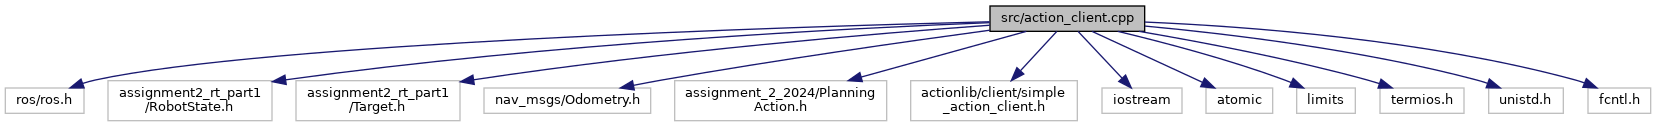
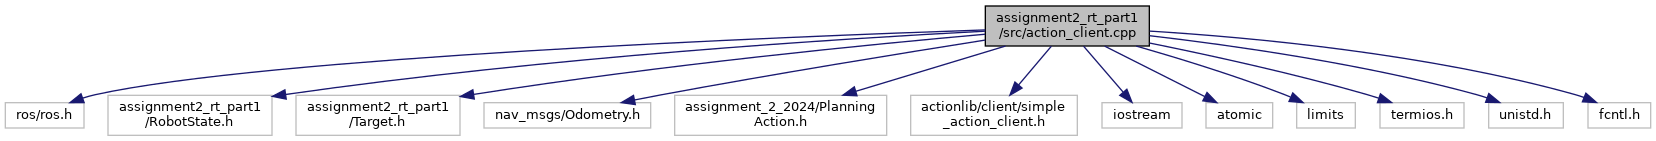
ADD: main page

diff --git a/docs/dir_955a259679ab280cdd64d1299b7c6535.html b/docs/dir_955a259679ab280cdd64d1299b7c6535.html
@@ -5,7 +5,7 @@
 <meta http-equiv="X-UA-Compatible" content="IE=9"/>
 <meta name="generator" content="Doxygen 1.8.17"/>
 <meta name="viewport" content="width=device-width, initial-scale=1"/>
-<title>Assignment2_part1: File List</title>
+<title>Assignment2_part1: assignment2_rt_part1/src Directory Reference</title>
 <link href="tabs.css" rel="stylesheet" type="text/css"/>
 <script type="text/javascript" src="jquery.js"></script>
 <script type="text/javascript" src="dynsections.js"></script>
@@ -46,7 +46,6 @@ $(function() {
 });
 /* @license-end */</script>
 <div id="main-nav"></div>
-</div><!-- top -->
 <!-- window showing the filter options -->
 <div id="MSearchSelectWindow"
      onmouseover="return searchBox.OnSearchSelectShow()"
@@ -61,19 +60,26 @@ $(function() {
 </iframe>
 </div>
 
+<div id="nav-path" class="navpath">
+  <ul>
+<li class="navelem"><a class="el" href="dir_6e08ae2e89184b452d084fd8f2a4e1f3.html">assignment2_rt_part1</a></li><li class="navelem"><a class="el" href="dir_955a259679ab280cdd64d1299b7c6535.html">src</a></li>  </ul>
+</div>
+</div><!-- top -->
 <div class="header">
   <div class="headertitle">
-<div class="title">File List</div>  </div>
+<div class="title">src Directory Reference</div>  </div>
 </div><!--header-->
 <div class="contents">
-<div class="textblock">Here is a list of all documented files with brief descriptions:</div><div class="directory">
-<div class="levels">[detail level <span onclick="javascript:toggleLevel(1);">1</span><span onclick="javascript:toggleLevel(2);">2</span><span onclick="javascript:toggleLevel(3);">3</span>]</div><table class="directory">
-<tr id="row_0_" class="even"><td class="entry"><span style="width:0px;display:inline-block;">&#160;</span><span id="arr_0_" class="arrow" onclick="toggleFolder('0_')">&#9660;</span><span id="img_0_" class="iconfopen" onclick="toggleFolder('0_')">&#160;</span><a class="el" href="dir_6e08ae2e89184b452d084fd8f2a4e1f3.html" target="_self">assignment2_rt_part1</a></td><td class="desc"></td></tr>
-<tr id="row_0_0_"><td class="entry"><span style="width:16px;display:inline-block;">&#160;</span><span id="arr_0_0_" class="arrow" onclick="toggleFolder('0_0_')">&#9660;</span><span id="img_0_0_" class="iconfopen" onclick="toggleFolder('0_0_')">&#160;</span><a class="el" href="dir_955a259679ab280cdd64d1299b7c6535.html" target="_self">src</a></td><td class="desc"></td></tr>
-<tr id="row_0_0_0_" class="even"><td class="entry"><span style="width:48px;display:inline-block;">&#160;</span><span class="icondoc"></span><a class="el" href="action__client_8cpp.html" target="_self">action_client.cpp</a></td><td class="desc">ROS action client for sending navigation goals and publishing the robot state </td></tr>
-<tr id="row_0_0_1_"><td class="entry"><span style="width:48px;display:inline-block;">&#160;</span><span class="icondoc"></span><a class="el" href="target__service_8cpp.html" target="_self">target_service.cpp</a></td><td class="desc">ROS service to retrieve the last received target coordinates </td></tr>
+<table class="memberdecls">
+<tr class="heading"><td colspan="2"><h2 class="groupheader"><a name="files"></a>
+Files</h2></td></tr>
+<tr class="memitem:action__client_8cpp"><td class="memItemLeft" align="right" valign="top">file &#160;</td><td class="memItemRight" valign="bottom"><a class="el" href="action__client_8cpp.html">action_client.cpp</a></td></tr>
+<tr class="memdesc:action__client_8cpp"><td class="mdescLeft">&#160;</td><td class="mdescRight">ROS action client for sending navigation goals and publishing the robot state. <br /></td></tr>
+<tr class="separator:"><td class="memSeparator" colspan="2">&#160;</td></tr>
+<tr class="memitem:target__service_8cpp"><td class="memItemLeft" align="right" valign="top">file &#160;</td><td class="memItemRight" valign="bottom"><a class="el" href="target__service_8cpp.html">target_service.cpp</a></td></tr>
+<tr class="memdesc:target__service_8cpp"><td class="mdescLeft">&#160;</td><td class="mdescRight">ROS service to retrieve the last received target coordinates. <br /></td></tr>
+<tr class="separator:"><td class="memSeparator" colspan="2">&#160;</td></tr>
 </table>
-</div><!-- directory -->
 </div><!-- contents -->
 <!-- start footer part -->
 <hr class="footer"/><address class="footer"><small>

diff --git a/docs/index.html b/docs/index.html
@@ -5,7 +5,7 @@
 <meta http-equiv="X-UA-Compatible" content="IE=9"/>
 <meta name="generator" content="Doxygen 1.8.17"/>
 <meta name="viewport" content="width=device-width, initial-scale=1"/>
-<title>Assignment2_part1: Main Page</title>
+<title>Assignment2_part1: ROS Action Client and Target Service Node Documentation</title>
 <link href="tabs.css" rel="stylesheet" type="text/css"/>
 <script type="text/javascript" src="jquery.js"></script>
 <script type="text/javascript" src="dynsections.js"></script>
@@ -61,11 +61,59 @@ $(function() {
 </iframe>
 </div>
 
-<div class="header">
+<div class="PageDoc"><div class="header">
   <div class="headertitle">
-<div class="title">Assignment2_part1 Documentation</div>  </div>
+<div class="title">ROS Action Client and Target Service Node Documentation </div>  </div>
 </div><!--header-->
 <div class="contents">
+<div class="textblock"><h1><a class="anchor" id="intro"></a>
+Introduction</h1>
+<p>This project consists of two key components:</p><ul>
+<li><b>Action Client Node</b>: A ROS node that interacts with a ROS action server, sending goals and monitoring their status.</li>
+<li><b>Target Service Node</b>: A ROS node that provides a service to retrieve the current target coordinates (x, y) and updates the coordinates by subscribing to a specific topic.</li>
+</ul>
+<p>These nodes work together in a simulation system to handle goal coordination and tracking.</p>
+<hr  />
+<h1><a class="anchor" id="action_client_node"></a>
+Action Client Node</h1>
+<p><br  />
+ This node is responsible for interacting with a ROS action server. It sends goals and monitors the action's status. The Action Client Node performs the following operations:</p><ul>
+<li>Sends goal coordinates to the action server.</li>
+<li>Monitors the status of the goal, checking if it has been reached or aborted.</li>
+<li>Publishes the robot's position and velocity through a custom message.</li>
+</ul>
+<h2><a class="anchor" id="action_client_call_graph"></a>
+Function Call Diagram</h2>
+<p>Below is the function call diagram that illustrates the key functions involved in the Action Client Node: </p><div class="dotgraph">
+<img src="dot_inline_dotgraph_1.png" alt="dot_inline_dotgraph_1.png" border="0" usemap="#dot_inline_dotgraph_1.map"/>
+</div>
+<h2><a class="anchor" id="action_client_file"></a>
+File: action_client_node.cpp</h2>
+<p>This file implements the Action Client Node, handling goal sending, status monitoring, and publishing position/velocity data.</p>
+<hr  />
+<h1><a class="anchor" id="target_service_node"></a>
+Target Service Node</h1>
+<p><br  />
+ The Target Service Node provides a service to return the current target coordinates and updates the target coordinates based on incoming messages. It performs the following tasks:</p><ul>
+<li>Provides the <code>get_target</code> service that responds with the current target coordinates (x, y).</li>
+<li>Subscribes to the <code>position_velocity</code> topic to update the internal target coordinates.</li>
+</ul>
+<h2><a class="anchor" id="target_service_call_graph"></a>
+Function Call Diagram</h2>
+<p>Below is the function call diagram for the Target Service Node: </p><div class="dotgraph">
+<img src="dot_inline_dotgraph_2.png" alt="dot_inline_dotgraph_2.png" border="0" usemap="#dot_inline_dotgraph_2.map"/>
+</div>
+<h2><a class="anchor" id="target_service_file"></a>
+File: target_service_node.cpp</h2>
+<p>This file implements the Target Service Node, handling the service and subscription to update target coordinates.</p>
+<hr  />
+<h1><a class="anchor" id="files"></a>
+Source Files</h1>
+<p>The following are the source files for both nodes:</p><ul>
+<li><b>Action Client Node</b>: <code>action_client_node.cpp</code></li>
+<li><b>Target Service Node</b>: <code>target_service_node.cpp</code> </li>
+</ul>
+</div></div><!-- PageDoc -->
 </div><!-- contents -->
 <!-- start footer part -->
 <hr class="footer"/><address class="footer"><small>

diff --git a/docs/action__client_8cpp.html b/docs/action__client_8cpp.html
@@ -5,7 +5,7 @@
 <meta http-equiv="X-UA-Compatible" content="IE=9"/>
 <meta name="generator" content="Doxygen 1.8.17"/>
 <meta name="viewport" content="width=device-width, initial-scale=1"/>
-<title>Assignment2_part1: src/action_client.cpp File Reference</title>
+<title>Assignment2_part1: assignment2_rt_part1/src/action_client.cpp File Reference</title>
 <link href="tabs.css" rel="stylesheet" type="text/css"/>
 <script type="text/javascript" src="jquery.js"></script>
 <script type="text/javascript" src="dynsections.js"></script>
@@ -62,7 +62,7 @@ $(function() {
 
 <div id="nav-path" class="navpath">
   <ul>
-<li class="navelem"><a class="el" href="dir_68267d1309a1af8e8297ef4c3efbcdba.html">src</a></li>  </ul>
+<li class="navelem"><a class="el" href="dir_6e08ae2e89184b452d084fd8f2a4e1f3.html">assignment2_rt_part1</a></li><li class="navelem"><a class="el" href="dir_955a259679ab280cdd64d1299b7c6535.html">src</a></li>  </ul>
 </div>
 </div><!-- top -->
 <div class="header">
@@ -92,21 +92,21 @@ $(function() {
 </div><div class="textblock"><div class="dynheader">
 Include dependency graph for action_client.cpp:</div>
 <div class="dyncontent">
-<div class="center"><img src="action__client_8cpp__incl.png" border="0" usemap="#src_2action__client_8cpp" alt=""/></div>
-<map name="src_2action__client_8cpp" id="src_2action__client_8cpp">
-<area shape="rect" title="ROS action client for sending navigation goals and publishing the robot state." alt="" coords="990,5,1145,32"/>
-<area shape="rect" title=" " alt="" coords="5,87,84,114"/>
-<area shape="rect" title=" " alt="" coords="108,80,272,121"/>
-<area shape="rect" title=" " alt="" coords="296,80,460,121"/>
-<area shape="rect" title=" " alt="" coords="484,87,651,114"/>
-<area shape="rect" title=" " alt="" coords="675,80,887,121"/>
-<area shape="rect" title=" " alt="" coords="911,80,1077,121"/>
-<area shape="rect" title=" " alt="" coords="1102,87,1182,114"/>
-<area shape="rect" title=" " alt="" coords="1206,87,1273,114"/>
-<area shape="rect" title=" " alt="" coords="1297,87,1355,114"/>
-<area shape="rect" title=" " alt="" coords="1380,87,1464,114"/>
-<area shape="rect" title=" " alt="" coords="1489,87,1563,114"/>
-<area shape="rect" title=" " alt="" coords="1588,87,1651,114"/>
+<div class="center"><img src="action__client_8cpp__incl.png" border="0" usemap="#assignment2__rt__part1_2src_2action__client_8cpp" alt=""/></div>
+<map name="assignment2__rt__part1_2src_2action__client_8cpp" id="assignment2__rt__part1_2src_2action__client_8cpp">
+<area shape="rect" title="ROS action client for sending navigation goals and publishing the robot state." alt="" coords="985,5,1149,47"/>
+<area shape="rect" title=" " alt="" coords="5,102,84,129"/>
+<area shape="rect" title=" " alt="" coords="108,95,272,136"/>
+<area shape="rect" title=" " alt="" coords="296,95,460,136"/>
+<area shape="rect" title=" " alt="" coords="484,102,651,129"/>
+<area shape="rect" title=" " alt="" coords="675,95,887,136"/>
+<area shape="rect" title=" " alt="" coords="911,95,1077,136"/>
+<area shape="rect" title=" " alt="" coords="1102,102,1182,129"/>
+<area shape="rect" title=" " alt="" coords="1206,102,1273,129"/>
+<area shape="rect" title=" " alt="" coords="1297,102,1355,129"/>
+<area shape="rect" title=" " alt="" coords="1380,102,1464,129"/>
+<area shape="rect" title=" " alt="" coords="1489,102,1563,129"/>
+<area shape="rect" title=" " alt="" coords="1588,102,1651,129"/>
 </map>
 </div>
 </div><table class="memberdecls">

diff --git a/docs/target__service_8cpp.html b/docs/target__service_8cpp.html
@@ -5,7 +5,7 @@
 <meta http-equiv="X-UA-Compatible" content="IE=9"/>
 <meta name="generator" content="Doxygen 1.8.17"/>
 <meta name="viewport" content="width=device-width, initial-scale=1"/>
-<title>Assignment2_part1: src/target_service.cpp File Reference</title>
+<title>Assignment2_part1: assignment2_rt_part1/src/target_service.cpp File Reference</title>
 <link href="tabs.css" rel="stylesheet" type="text/css"/>
 <script type="text/javascript" src="jquery.js"></script>
 <script type="text/javascript" src="dynsections.js"></script>
@@ -62,7 +62,7 @@ $(function() {
 
 <div id="nav-path" class="navpath">
   <ul>
-<li class="navelem"><a class="el" href="dir_68267d1309a1af8e8297ef4c3efbcdba.html">src</a></li>  </ul>
+<li class="navelem"><a class="el" href="dir_6e08ae2e89184b452d084fd8f2a4e1f3.html">assignment2_rt_part1</a></li><li class="navelem"><a class="el" href="dir_955a259679ab280cdd64d1299b7c6535.html">src</a></li>  </ul>
 </div>
 </div><!-- top -->
 <div class="header">
@@ -83,13 +83,13 @@ $(function() {
 </div><div class="textblock"><div class="dynheader">
 Include dependency graph for target_service.cpp:</div>
 <div class="dyncontent">
-<div class="center"><img src="target__service_8cpp__incl.png" border="0" usemap="#src_2target__service_8cpp" alt=""/></div>
-<map name="src_2target__service_8cpp" id="src_2target__service_8cpp">
-<area shape="rect" title="ROS service to retrieve the last received target coordinates." alt="" coords="201,5,366,32"/>
-<area shape="rect" title=" " alt="" coords="5,87,84,114"/>
-<area shape="rect" title=" " alt="" coords="108,80,272,121"/>
-<area shape="rect" title=" " alt="" coords="296,80,460,121"/>
-<area shape="rect" title=" " alt="" coords="485,87,549,114"/>
+<div class="center"><img src="target__service_8cpp__incl.png" border="0" usemap="#assignment2__rt__part1_2src_2target__service_8cpp" alt=""/></div>
+<map name="assignment2__rt__part1_2src_2target__service_8cpp" id="assignment2__rt__part1_2src_2target__service_8cpp">
+<area shape="rect" title="ROS service to retrieve the last received target coordinates." alt="" coords="199,5,368,47"/>
+<area shape="rect" title=" " alt="" coords="5,102,84,129"/>
+<area shape="rect" title=" " alt="" coords="108,95,272,136"/>
+<area shape="rect" title=" " alt="" coords="296,95,460,136"/>
+<area shape="rect" title=" " alt="" coords="485,102,549,129"/>
 </map>
 </div>
 </div><table class="memberdecls">

diff --git a/docs/dir_6e08ae2e89184b452d084fd8f2a4e1f3.html b/docs/dir_6e08ae2e89184b452d084fd8f2a4e1f3.html
@@ -5,7 +5,7 @@
 <meta http-equiv="X-UA-Compatible" content="IE=9"/>
 <meta name="generator" content="Doxygen 1.8.17"/>
 <meta name="viewport" content="width=device-width, initial-scale=1"/>
-<title>Assignment2_part1: src Directory Reference</title>
+<title>Assignment2_part1: assignment2_rt_part1 Directory Reference</title>
 <link href="tabs.css" rel="stylesheet" type="text/css"/>
 <script type="text/javascript" src="jquery.js"></script>
 <script type="text/javascript" src="dynsections.js"></script>
@@ -62,23 +62,17 @@ $(function() {
 
 <div id="nav-path" class="navpath">
   <ul>
-<li class="navelem"><a class="el" href="dir_68267d1309a1af8e8297ef4c3efbcdba.html">src</a></li>  </ul>
+<li class="navelem"><a class="el" href="dir_6e08ae2e89184b452d084fd8f2a4e1f3.html">assignment2_rt_part1</a></li>  </ul>
 </div>
 </div><!-- top -->
 <div class="header">
   <div class="headertitle">
-<div class="title">src Directory Reference</div>  </div>
+<div class="title">assignment2_rt_part1 Directory Reference</div>  </div>
 </div><!--header-->
 <div class="contents">
 <table class="memberdecls">
-<tr class="heading"><td colspan="2"><h2 class="groupheader"><a name="files"></a>
-Files</h2></td></tr>
-<tr class="memitem:action__client_8cpp"><td class="memItemLeft" align="right" valign="top">file &#160;</td><td class="memItemRight" valign="bottom"><a class="el" href="action__client_8cpp.html">action_client.cpp</a></td></tr>
-<tr class="memdesc:action__client_8cpp"><td class="mdescLeft">&#160;</td><td class="mdescRight">ROS action client for sending navigation goals and publishing the robot state. <br /></td></tr>
-<tr class="separator:"><td class="memSeparator" colspan="2">&#160;</td></tr>
-<tr class="memitem:target__service_8cpp"><td class="memItemLeft" align="right" valign="top">file &#160;</td><td class="memItemRight" valign="bottom"><a class="el" href="target__service_8cpp.html">target_service.cpp</a></td></tr>
-<tr class="memdesc:target__service_8cpp"><td class="mdescLeft">&#160;</td><td class="mdescRight">ROS service to retrieve the last received target coordinates. <br /></td></tr>
-<tr class="separator:"><td class="memSeparator" colspan="2">&#160;</td></tr>
+<tr class="heading"><td colspan="2"><h2 class="groupheader"><a name="subdirs"></a>
+Directories</h2></td></tr>
 </table>
 </div><!-- contents -->
 <!-- start footer part -->

diff --git a/docs/search/pages_0.html b/docs/search/pages_0.html
@@ -1,0 +1,30 @@
+<!DOCTYPE html PUBLIC "-//W3C//DTD XHTML 1.0 Transitional//EN" "https://www.w3.org/TR/xhtml1/DTD/xhtml1-transitional.dtd">
+<html><head><title></title>
+<meta http-equiv="Content-Type" content="text/xhtml;charset=UTF-8"/>
+<meta name="generator" content="Doxygen 1.8.17"/>
+<link rel="stylesheet" type="text/css" href="search.css"/>
+<script type="text/javascript" src="pages_0.js"></script>
+<script type="text/javascript" src="search.js"></script>
+</head>
+<body class="SRPage">
+<div id="SRIndex">
+<div class="SRStatus" id="Loading">Loading...</div>
+<div id="SRResults"></div>
+<script type="text/javascript"><!--
+/* @license magnet:?xt=urn:btih:cf05388f2679ee054f2beb29a391d25f4e673ac3&amp;dn=gpl-2.0.txt GPL-v2 */
+createResults();
+/* @license-end */
+--></script>
+<div class="SRStatus" id="Searching">Searching...</div>
+<div class="SRStatus" id="NoMatches">No Matches</div>
+<script type="text/javascript"><!--
+/* @license magnet:?xt=urn:btih:cf05388f2679ee054f2beb29a391d25f4e673ac3&amp;dn=gpl-2.0.txt GPL-v2 */
+document.getElementById("Loading").style.display="none";
+document.getElementById("NoMatches").style.display="none";
+var searchResults = new SearchResults("searchResults");
+searchResults.Search();
+/* @license-end */
+--></script>
+</div>
+</body>
+</html>

diff --git a/docs/search/all_8.js b/docs/search/all_8.js
@@ -1,8 +1,8 @@
 var searchData=
 [
-  ['target_5fmsg_13',['target_msg',['../action__client_8cpp.html#a741e37776d7132d432acca070950c391',1,'action_client.cpp']]],
-  ['target_5fmutex_14',['target_mutex',['../target__service_8cpp.html#aee6665e6bdfaf04edece9acdc743bb9a',1,'target_service.cpp']]],
-  ['target_5fpub_15',['target_pub',['../action__client_8cpp.html#ab2b40ed407e97f759c068421df4e3bed',1,'action_client.cpp']]],
-  ['target_5fservice_2ecpp_16',['target_service.cpp',['../target__service_8cpp.html',1,'']]],
-  ['targetcallback_17',['targetCallback',['../target__service_8cpp.html#af70e72cbe306e81d50f76f01144761d3',1,'target_service.cpp']]]
+  ['target_5fmsg_14',['target_msg',['../action__client_8cpp.html#a741e37776d7132d432acca070950c391',1,'action_client.cpp']]],
+  ['target_5fmutex_15',['target_mutex',['../target__service_8cpp.html#aee6665e6bdfaf04edece9acdc743bb9a',1,'target_service.cpp']]],
+  ['target_5fpub_16',['target_pub',['../action__client_8cpp.html#ab2b40ed407e97f759c068421df4e3bed',1,'action_client.cpp']]],
+  ['target_5fservice_2ecpp_17',['target_service.cpp',['../target__service_8cpp.html',1,'']]],
+  ['targetcallback_18',['targetCallback',['../target__service_8cpp.html#af70e72cbe306e81d50f76f01144761d3',1,'target_service.cpp']]]
 ];

diff --git a/docs/search/functions_0.js b/docs/search/functions_0.js
@@ -1,6 +1,6 @@
 var searchData=
 [
-  ['getlasttarget_20',['getLastTarget',['../target__service_8cpp.html#a26415406f3586f7657250530d41049c9',1,'target_service.cpp']]],
-  ['gettargetfromuser_21',['getTargetFromUser',['../action__client_8cpp.html#a7e194b74945928e7c0ffad17aeff91f9',1,'action_client.cpp']]],
-  ['goal_5freached_22',['goal_reached',['../action__client_8cpp.html#adfb2af476ffbaef72eac207d2c545eb1',1,'action_client.cpp']]]
+  ['getlasttarget_21',['getLastTarget',['../target__service_8cpp.html#a26415406f3586f7657250530d41049c9',1,'target_service.cpp']]],
+  ['gettargetfromuser_22',['getTargetFromUser',['../action__client_8cpp.html#a7e194b74945928e7c0ffad17aeff91f9',1,'action_client.cpp']]],
+  ['goal_5freached_23',['goal_reached',['../action__client_8cpp.html#adfb2af476ffbaef72eac207d2c545eb1',1,'action_client.cpp']]]
 ];

diff --git a/docs/search/variables_2.js b/docs/search/variables_2.js
@@ -1,6 +1,6 @@
 var searchData=
 [
-  ['target_5fmsg_33',['target_msg',['../action__client_8cpp.html#a741e37776d7132d432acca070950c391',1,'action_client.cpp']]],
-  ['target_5fmutex_34',['target_mutex',['../target__service_8cpp.html#aee6665e6bdfaf04edece9acdc743bb9a',1,'target_service.cpp']]],
-  ['target_5fpub_35',['target_pub',['../action__client_8cpp.html#ab2b40ed407e97f759c068421df4e3bed',1,'action_client.cpp']]]
+  ['target_5fmsg_34',['target_msg',['../action__client_8cpp.html#a741e37776d7132d432acca070950c391',1,'action_client.cpp']]],
+  ['target_5fmutex_35',['target_mutex',['../target__service_8cpp.html#aee6665e6bdfaf04edece9acdc743bb9a',1,'target_service.cpp']]],
+  ['target_5fpub_36',['target_pub',['../action__client_8cpp.html#ab2b40ed407e97f759c068421df4e3bed',1,'action_client.cpp']]]
 ];

diff --git a/docs/search/all_6.js b/docs/search/all_6.js
@@ -1,5 +1,6 @@
 var searchData=
 [
-  ['robot_5fstate_5fmsg_9',['robot_state_msg',['../action__client_8cpp.html#a9d14695ea84305846b0988721ad6aceb',1,'action_client.cpp']]],
-  ['robot_5fstate_5fpub_10',['robot_state_pub',['../action__client_8cpp.html#a0cfea752b0c4dbee3b5d7ae08d0db635',1,'action_client.cpp']]]
+  ['ros_20action_20client_20and_20target_20service_20node_20documentation_9',['ROS Action Client and Target Service Node Documentation',['../index.html',1,'']]],
+  ['robot_5fstate_5fmsg_10',['robot_state_msg',['../action__client_8cpp.html#a9d14695ea84305846b0988721ad6aceb',1,'action_client.cpp']]],
+  ['robot_5fstate_5fpub_11',['robot_state_pub',['../action__client_8cpp.html#a0cfea752b0c4dbee3b5d7ae08d0db635',1,'action_client.cpp']]]
 ];

diff --git a/docs/search/variables_1.js b/docs/search/variables_1.js
@@ -1,5 +1,5 @@
 var searchData=
 [
-  ['robot_5fstate_5fmsg_31',['robot_state_msg',['../action__client_8cpp.html#a9d14695ea84305846b0988721ad6aceb',1,'action_client.cpp']]],
-  ['robot_5fstate_5fpub_32',['robot_state_pub',['../action__client_8cpp.html#a0cfea752b0c4dbee3b5d7ae08d0db635',1,'action_client.cpp']]]
+  ['robot_5fstate_5fmsg_32',['robot_state_msg',['../action__client_8cpp.html#a9d14695ea84305846b0988721ad6aceb',1,'action_client.cpp']]],
+  ['robot_5fstate_5fpub_33',['robot_state_pub',['../action__client_8cpp.html#a0cfea752b0c4dbee3b5d7ae08d0db635',1,'action_client.cpp']]]
 ];

diff --git a/docs/search/variables_0.js b/docs/search/variables_0.js
@@ -1,5 +1,5 @@
 var searchData=
 [
-  ['last_5ftarget_5fx_29',['last_target_x',['../target__service_8cpp.html#a6ba73675fde18ddbc4b2ff785d056853',1,'target_service.cpp']]],
-  ['last_5ftarget_5fy_30',['last_target_y',['../target__service_8cpp.html#ad4fa5ebc194c26e92260442e6a5da3c9',1,'target_service.cpp']]]
+  ['last_5ftarget_5fx_30',['last_target_x',['../target__service_8cpp.html#a6ba73675fde18ddbc4b2ff785d056853',1,'target_service.cpp']]],
+  ['last_5ftarget_5fy_31',['last_target_y',['../target__service_8cpp.html#ad4fa5ebc194c26e92260442e6a5da3c9',1,'target_service.cpp']]]
 ];
